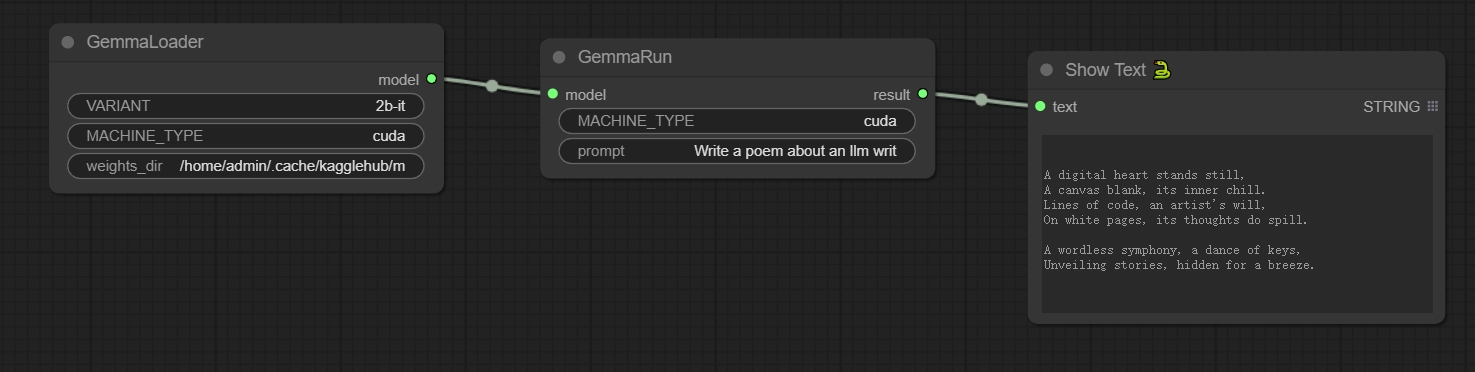
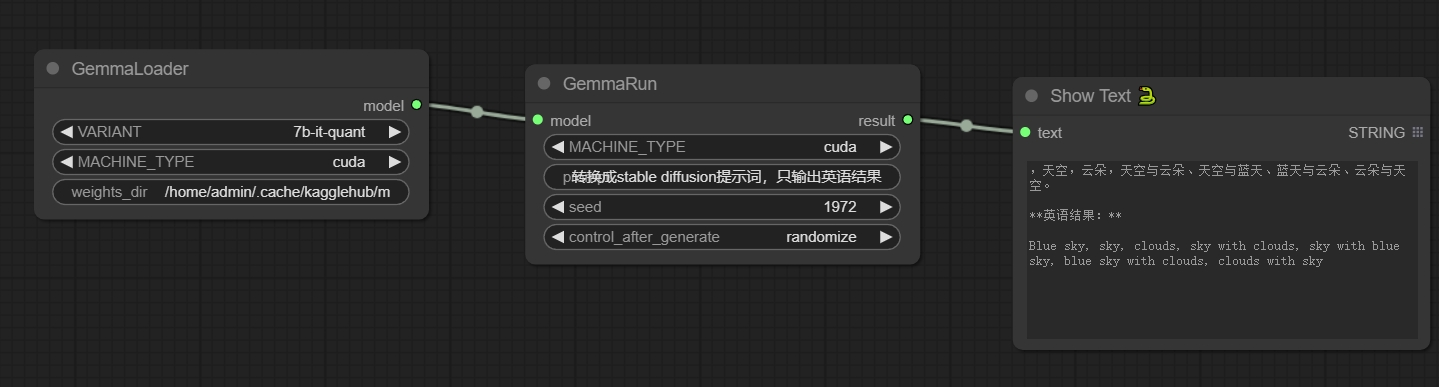
README.md

diff --git a/nodes.py b/nodes.py
@@ -1,5 +1,8 @@
 import os
 import folder_paths
+import random
+
+import numpy as np
 import torch
 
 import kagglehub
@@ -18,9 +21,9 @@ class GemmaLoader:
     def INPUT_TYPES(cls):
         return {
             "required": {
-                "VARIANT": ("STRING",{"default":"2b-it"}),
-                "MACHINE_TYPE": ("STRING",{"default":"cuda"}),
-                "weights_dir": ("STRING",{"default":"/home/admin/.cache/kagglehub/models/google/gemma/pyTorch/2b-it/2"}),
+                "VARIANT": (['2b', '2b-it', '7b', '7b-it', '7b-quant', '7b-it-quant'],{"default":"7b-it-quant"}),
+                "MACHINE_TYPE": (['cuda', 'cpu'],{"default":"cuda"}),
+                "weights_dir": ("STRING",{"default":"/home/admin/.cache/kagglehub/models/google/gemma/pyTorch/7b-it-quant/2"}),
             },
         }
 
@@ -32,6 +35,7 @@ class GemmaLoader:
     def run(self,VARIANT,MACHINE_TYPE,weights_dir):
         # Ensure that the tokenizer is present
         tokenizer_path = os.path.join(weights_dir, 'tokenizer.model')
+        print(tokenizer_path)
         assert os.path.isfile(tokenizer_path), 'Tokenizer not found!'
 
         # Ensure that the checkpoint is present
@@ -61,8 +65,9 @@ class GemmaRun:
         return {
             "required": {
                 "model": ("GemmaModel",),
-                "MACHINE_TYPE": ("STRING",{"default":"cuda"}),
+                "MACHINE_TYPE": (['cuda', 'cpu'],{"default":"cuda"}),
                 "prompt": ("STRING",{"default":""}),
+                "seed": ("INT",{"default": 0, "min": 0, "max": 0xffffffffffffffff}),
             },
         }
 
@@ -71,8 +76,11 @@ class GemmaRun:
     FUNCTION = "run"
     CATEGORY = "Gemma"
 
-    def run(self,model,MACHINE_TYPE,prompt):
+    def run(self,model,MACHINE_TYPE,prompt,seed):
         device = torch.device(MACHINE_TYPE)
+        random.seed(seed)
+        np.random.seed(seed)
+        torch.manual_seed(seed)
         # Generate sample
         result=model.generate(
             prompt,

diff --git a/README.md b/README.md
@@ -1,5 +1,23 @@
 ComfyUI Gemma
 
+https://www.kaggle.com/models/google/gemma
+
+Export your Kaggle username and token to the environment:
+
+'''
+export KAGGLE_USERNAME=fles123
+export KAGGLE_KEY=cb8421571d5d0e29f0564b5a9b105405
+'''
+
+Run python code to download models
+
+'''
+import kagglehub
+VARIANT='7b-it-quant' #@param ['2b', '2b-it', '7b', '7b-it', '7b-quant', '7b-it-quant']
+weights_dir = kagglehub.model_download(f'google/gemma/pyTorch/{VARIANT}')
+print(f'{weights_dir}')
+'''
+
 Basic workflow
 
 <img src="wf.png" raw=true>
